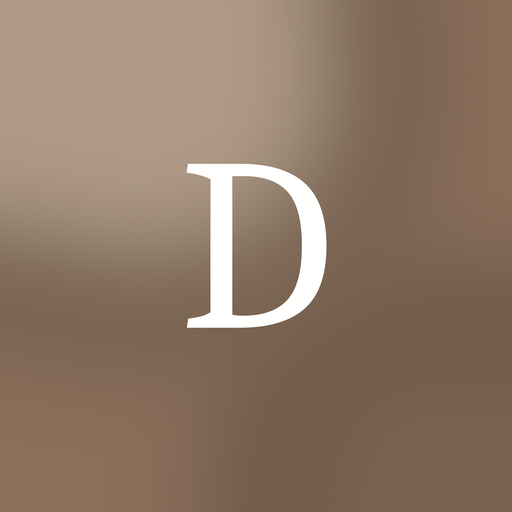
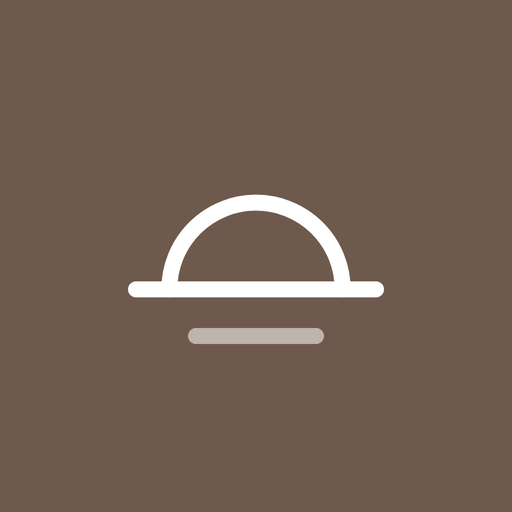
Sunrise mark instead of the name, stay inside Daylo, saved companies, numbered invoices from email
Claude-Session: https://claude.ai/code/session_01332NGPfYHGdoGqGJH88BvD

diff --git a/index.html b/index.html
@@ -1119,7 +1119,7 @@ function renderSide(){
   const gs={compose:['ok','Emails open in your Gmail'],ok:['ok','Gmail connected'],checking:['','Checking Gmail…'],unknown:['warn','Gmail asks on first use'],reauth:['bad','Reconnect Gmail'],missing:['bad','Gmail not connected'],none:['bad','Gmail unavailable here']}[S.gmailStatus]||['','Gmail'];
   const ds={device:['ok','Saved on this device'],db:['ok','Saving to your account'],memory:['warn','Not saving: open in Claude'],checking:['','Loading your data…']}[S.dbStatus]||['',''];
   $('#side').replaceChildren(
-    h('div',{class:'brand'},h('div',{class:'mark'},S.settings.avatarId?h('img',{src:blobUrl(S.settings.avatarId),alt:''}):initials(myName()||'Daylo')),h('div',{class:'grow'},h('b',null,'Daylo'),h('span',null,myName()||'Brand deals, in one place'))),
+    h('div',{class:'brand'},h('div',{class:'mark'},S.settings.avatarId?h('img',{src:blobUrl(S.settings.avatarId),alt:''}):initials(myName()||'Daylo')),h('div',{class:'grow'},h('b',null,logoMark(30)),h('span',null,myName()||'Brand deals, in one place'))),
     h('nav',{class:'nav','aria-label':'Sections'},NAV.map(([k,l])=>h('button',{'aria-current':page===k?'page':null,onclick:()=>{S.campStages=null;S.invFilter=null;go(k)}},icon(k),k==='campaigns'?V().title:l,c[k]?h('span',{class:'count'},c[k]):null))),
     h('div',{class:'side-foot'},installEvt?h('button',{class:'btn sm primary',onclick:installApp},icon('plus'),'Install app'):null,
       needAllow?h('button',{class:'btn sm primary',onclick:allowGmail},icon('mail'),'Allow Gmail'):h('div',{class:'status-line'},h('span',{class:'dot '+gs[0]}),gs[1]),
@@ -2104,7 +2104,7 @@ function importData(){const inp=h('input',{type:'file',accept:'application/json,
       persist();schedule();toast('Imported '+n+' items')}
     catch{toast('That file isn\'t a Daylo backup.')}});
   document.body.append(inp);inp.click()}
-function welcomeCard(){const st=S.settings;return h('section',{class:'panel'},h('div',{class:'panel-body form'},h('h2',null,st.gmailAt?'Nothing planned yet':'Fill your Daylo from Gmail'),h('p',{class:'muted'},st.gmailAt?'Gmail had nothing new to add. Tap + to plan something, or look around with an example.':'Daylo reads your recent emails and suggests brand deals, payments, dates and replies. You choose what to keep.'),h('div',{class:'row'},h('button',{class:'btn primary',onclick:checkGmail},icon(st.gmailAt?'refresh':'mail'),st.gmailAt?'Check Gmail again':'Connect Gmail'),h('button',{class:'btn',onclick:()=>{loadDemo();toast('Example data loaded')}},'See an example')),st.gmailAt?null:h('p',{class:'small muted'},'Read only · stays on this device')))}
+function welcomeCard(){const st=S.settings;return h('section',{class:'panel'},h('div',{class:'panel-body form'},h('h2',null,st.gmailAt?'Nothing planned yet':'Fill from Gmail'),h('p',{class:'muted'},st.gmailAt?'Gmail had nothing new to add. Tap + to plan something, or look around with an example.':'Your deals, payments and dates, found for you. You choose what to keep.'),h('div',{class:'row'},h('button',{class:'btn primary',onclick:checkGmail},icon(st.gmailAt?'refresh':'mail'),st.gmailAt?'Check Gmail again':'Connect Gmail'),h('button',{class:'btn',onclick:()=>{loadDemo();toast('Example data loaded')}},'See an example')),st.gmailAt?null:h('p',{class:'small muted'},'Read only · stays on this device')))}
 function pageSettings(){
   const st=S.settings;
   const form=h('form',{class:'form',onsubmit:async e=>{e.preventDefault();const f=e.target.elements;await attempt(()=>saveSettings({role:f.role.value,name:f.name.value.trim(),gmailAddress:f.gmailAddress.value.trim().toLowerCase(),rates:f.rates.value.trim(),signature:f.signature.value,currency:f.currency.value,dealQuery:f.dealQuery.value.trim()}),'Settings saved')}},
@@ -2143,7 +2143,7 @@ function shareDaylo(){
   openDrawer('Share Daylo',h('div',{class:'form',style:'align-items:center;text-align:center'},
     h('p',{class:'muted'},'Scan with your phone camera.'),
     h('img',{src:TRY_QR,alt:'QR code to try Daylo',class:'share-qr'}),
-    h('div',{class:'share-name'},h('b',null,'Daylo'),h('span',null,'AI Assistant')),
+    h('div',{class:'share-name'},h('b',null,logoMark(30)),h('span',null,'AI Assistant')),
     h('div',{class:'row',style:'justify-content:center'},
       navigator.share?h('button',{class:'btn primary',onclick:()=>navigator.share({title:'Daylo',text:'Daylo AI Assistant: your days, gently in order.',url:TRY_URL}).catch(()=>{})},icon('send'),'Send the link'):null,
       h('button',{class:'btn',onclick:async()=>{try{await navigator.clipboard.writeText(TRY_URL);toast('Link copied')}catch{toast(TRY_URL)}}},'Copy link'))),
@@ -2172,7 +2172,7 @@ async function notifyNow(){if(notifBusy||!CUR||notifState()!=='granted'||!S.sett
     const sent=(S.settings.notified&&S.settings.notified.day===t)?{...S.settings.notified,keys:[...S.settings.notified.keys]}:{day:t,keys:[]};
     let last=null;try{last=await IDB.get('lastSummary:'+CUR)}catch{}
     if(last!==t&&now.getHours()>=7){const late=S.tasks.filter(x=>!x.done&&x.due&&x.due<t).length,due=S.tasks.filter(x=>!x.done&&x.due===t).length,rt=routinesOn(t).filter(r=>!routineDone(r,t)).length;
-      if(late||due||rt){await showNote('Your day in Daylo',[due&&due+' due today',late&&late+' late',rt&&rt+(rt===1?' routine':' routines')].filter(Boolean).join(' · '),'daylo-summary','./#schedule')}
+      if(late||due||rt){await showNote('Your day',[due&&due+' due today',late&&late+' late',rt&&rt+(rt===1?' routine':' routines')].filter(Boolean).join(' · '),'daylo-summary','./#schedule')}
       try{await IDB.set('lastSummary:'+CUR,t)}catch{}}
     for(const x of S.tasks.filter(x=>!x.done&&x.due===t&&x.time)){const[hh,mm]=x.time.split(':').map(Number);const at=new Date();at.setHours(hh,mm,0,0);const diff=(at-now)/60000;const k='soon:'+x.id+':'+x.time;
       if(diff<=15&&diff>-5&&!sent.keys.includes(k)){await showNote(diff>0?'In '+Math.max(1,Math.round(diff))+' min: '+x.title:'Now: '+x.title,(x.type||'Task')+(x.campaignId?' · '+campaignName(x.campaignId):''),k,'./#schedule');sent.keys.push(k);changed=true}}
@@ -2393,27 +2393,27 @@ function sugSub(s){
 }
 function showFound(found,read){
   if(!found.length){
-    openDrawer('Your Gmail',h('div',{class:'form'},h('p',null,h('b',null,'Nothing new to add.')),h('p',{class:'muted'},'Daylo read '+read+' recent emails and didn’t find new brand deals, payments, dates or questions waiting for you.'),h('p',{class:'small muted'},'You can see your latest emails on the Email page.')),
+    openDrawer('Your Gmail',h('div',{class:'form'},h('p',null,h('b',null,'Nothing new to add.')),h('p',{class:'muted'},'Read '+read+' emails. No new brand deals, payments, dates or questions waiting for you.'),h('p',{class:'small muted'},'You can see your latest emails on the Email page.')),
       [h('button',{class:'btn primary',onclick:()=>{closeDrawer();renderMain()}},'OK'),h('button',{class:'btn',onclick:()=>{closeDrawer();go('inbox')}},'See emails')]);
     renderMain();return;
   }
   const pick=new Set(found.map(s=>s.key));
   const btn=h('button',{class:'btn primary',type:'button'});
-  const upd=()=>{btn.textContent=pick.size?('Add '+pick.size+' to Daylo'):'Add to Daylo';btn.disabled=!pick.size};upd();
+  const upd=()=>{btn.textContent=pick.size?('Add '+pick.size):'Add';btn.disabled=!pick.size};upd();
   const groups=['deal','money','date','reply'].map(k=>{const items=found.filter(s=>s.kind===k);if(!items.length)return null;
     return h('div',{class:'gm-group'},h('h3',{class:'gm-h'},icon(KIND[k][1]),KIND[k][0],h('span',{class:'muted'},items.length)),
       h('div',{class:'list'},items.map(s=>{const cb=h('input',{type:'checkbox',checked:true,'aria-label':'Add '+sugTitle(s),onchange:()=>{cb.checked?pick.add(s.key):pick.delete(s.key);upd()}});
         return h('label',{class:'item gm-item'},cb,h('div',{class:'grow'},h('div',{class:'t'},sugTitle(s)),h('div',{class:'sub'},sugSub(s))),
-          h('a',{class:'btn sm ghost',href:gmailUrl('#all/'+s.threadId),target:'_blank',rel:'noopener',onclick:e=>e.stopPropagation()},'Open'))})))});
+          h('button',{class:'btn sm ghost',type:'button',onclick:e=>{e.preventDefault();e.stopPropagation();openMail(s.threadId)}},'Open'))})))});
   btn.onclick=async()=>{btn.disabled=true;let n=0;
     for(const s of found){if(pick.has(s.key)){await addSuggestion(s);n++}}
     const skipped=found.filter(s=>!pick.has(s.key)).map(s=>s.key);
     await saveSettings({gmailSkip:[...(S.settings.gmailSkip||[]),...skipped].slice(-400)});
-    closeDrawer();renderMain();toast('Added '+n+' to your Daylo');};
+    closeDrawer();renderMain();toast('Added '+n+'');};
   openDrawer('Found in your Gmail',h('div',{class:'form'},
-    h('p',{class:'muted'},'Daylo read '+read+' recent emails and found '+found.length+' things. Untick anything you don’t want, then add.'),
+    h('p',{class:'muted'},'Read '+read+' emails, found '+found.length+' things. Untick anything you don’t want, then add.'),
     ...groups.filter(Boolean),
-    h('p',{class:'small muted'},'Read only: Daylo can’t send, delete or change your emails. What it reads stays on this device.')),
+    h('p',{class:'small muted'},'Read only · stays on this device')),
     [btn,h('button',{class:'btn',type:'button',onclick:()=>{closeDrawer();renderMain()}},'Not now')]);
 }
 async function addSuggestion(s){
@@ -2527,7 +2527,7 @@ function askConfirm(){
   if(!CP||reviewWarnings().some(x=>x[0]==='bad'))return;
   const no=h('button',{class:'btn',type:'button',onclick:closeConfirm},'No, go back');
   const yes=h('button',{class:'btn primary',id:'cf-send',type:'button',onclick:sendViaGmail},icon('send'),'Yes, send');
-  const viaGmail=h('a',{class:'linkish small',href:composeUrl(),target:'_blank',rel:'noopener',onclick:()=>{closeConfirm();CP.step='handed';drawComposer()}},'or open it in Gmail');
+  const viaGmail=null;
   $('#overlay').append(h('div',{class:'confirm-layer',id:'confirm-layer',role:'alertdialog','aria-modal':'true','aria-labelledby':'cf-t'},h('div',{class:'confirm-card'},
     h('h2',{id:'cf-t'},'Send this email?'),
     h('p',null,tokOk()&&GSEND?'It goes out from your Gmail right now.':'Google asks you once to allow sending, then it goes out from your Gmail.'),
@@ -2644,7 +2644,7 @@ document.head.append(Object.assign(document.createElement('style'),{textContent:
 `}));
 
 /* ---------- updates: pull down to refresh, auto-update when a new version is out ---------- */
-const BUILD_ID='202610141838';
+const BUILD_ID='202610141843';
 function buildLabel(id){const m=String(id).match(/^(\d{4})(\d\d)(\d\d)(\d\d)(\d\d)$/);if(!m)return id;const d=new Date(+m[1],m[2]-1,+m[3],+m[4],+m[5]);return d.toLocaleDateString(undefined,{month:'short',day:'numeric'})+', '+d.toLocaleTimeString([], {hour:'numeric',minute:'2-digit'})}
 async function newVersion(){try{const t=await fetch('./index.html?fresh='+Date.now(),{cache:'no-store'}).then(r=>r.ok?r.text():'');const m=t.match(/BUILD_ID='(\d{12})'/);return m&&m[1]!==BUILD_ID?m[1]:null}catch{return null}}
 async function refreshApp(){
@@ -2657,7 +2657,7 @@ async function refreshApp(){
 (function cleanV(){if(/[?&]v=\d+/.test(location.search)){try{history.replaceState(null,'',location.pathname+location.hash)}catch{}}})();
 function busyNow(){return !!(document.querySelector('#overlay > *')||document.activeElement&&/INPUT|TEXTAREA|SELECT/.test(document.activeElement.tagName))}
 let updWaiting=null;
-function showUpdateBar(){if(document.getElementById('upd-bar'))return;const b=h('div',{id:'upd-bar'},h('span',null,'A new version of Daylo is ready'),h('button',{onclick:refreshApp},'Update'));document.body.append(b)}
+function showUpdateBar(){if(document.getElementById('upd-bar'))return;const b=h('div',{id:'upd-bar'},h('span',null,'A new version is ready'),h('button',{onclick:refreshApp},'Update'));document.body.append(b)}
 async function checkUpdate(manual){
   const v=await newVersion();
   if(!v){if(manual)toast('You have the latest version');return false}
@@ -2678,7 +2678,7 @@ setInterval(()=>{if(document.visibilityState==='visible')checkUpdate(false)},20*
   window.addEventListener('touchend',()=>{if(y0==null)return;y0=null;if(d>=72){ind.classList.add('spin');ind.style.transform='translate(-50%,36px)';refreshApp()}else{ind.style.opacity=0;ind.style.transform=''}d=0});
 })();
 function appPanel(){return h('section',{class:'panel',id:'app-version'},h('div',{class:'panel-head'},h('h2',null,'App updates')),h('div',{class:'panel-body form'},
-  h('p',{class:'small muted'},'Version '+buildLabel(BUILD_ID)+'. Daylo updates itself when you open it. You can also pull down from the top of any page, or tap the button.'),
+  h('p',{class:'small muted'},'Version '+buildLabel(BUILD_ID)+'. Updates arrive on their own. Pull down to refresh.'),
   h('div',{class:'row'},h('button',{class:'btn',onclick:()=>{toast('Checking…');checkUpdate(true)}},icon('refresh'),'Check for updates'))))}
 const _pageSettings=pageSettings;
 pageSettings=function(){const el=_pageSettings();try{el.append(appPanel())}catch(e){}return el};
@@ -2897,7 +2897,7 @@ function draftReply(p,msg){
 
 /* mic in the top bar (phone) and ?talk=1 opens it */
 const _renderSideV=renderSide;
-renderSide=function(){_renderSideV();try{const tr=document.querySelector('.top-right');if(tr&&!tr.querySelector('.mic-btn')){const b=h('button',{class:'bell mic-btn','aria-label':'Talk to Daylo',title:'Talk to Daylo',onclick:openVoice},icon('mic'));tr.insertBefore(b,tr.querySelector('.bell'))}}catch{}};
+renderSide=function(){_renderSideV();try{const tr=document.querySelector('.top-right');if(tr&&!tr.querySelector('.mic-btn')){const b=h('button',{class:'bell mic-btn','aria-label':'Talk',title:'Talk',onclick:openVoice},icon('mic'));tr.insertBefore(b,tr.querySelector('.bell'))}}catch{}};
 /* voice settings */
 function voicePanel(){
   const st=S.settings;const sel=h('select',{class:'input',id:'set-voice'});
@@ -2905,12 +2905,12 @@ function voicePanel(){
     const list=all.filter(v=>showAll||/^(en|es)/i.test(v.lang)).sort((a,b)=>a.lang.localeCompare(b.lang)||a.name.localeCompare(b.name));
     sel.replaceChildren(...(list.length?list.map(v=>{const o=h('option',{value:v.name},v.name+' · '+v.lang);if(v.name===cur)o.selected=true;return o}):[h('option',{value:''},'Voices are loading…')]))};
   fill();try{speechSynthesis.onvoiceschanged=fill}catch{}
-  sel.onchange=()=>{saveSettings({voiceName:sel.value});speak('Hi'+(myName()?' '+myName().split(' ')[0]:'')+', I’m Daylo.')};
+  sel.onchange=()=>{saveSettings({voiceName:sel.value});speak('Hi'+(myName()?' '+myName().split(' ')[0]:'')+'.')};
   const rate=h('input',{type:'range',min:'0.7',max:'1.3',step:'0.05',value:String(st.voiceRate||1),oninput:e=>{S.settings.voiceRate=Number(e.target.value)},onchange:e=>{saveSettings({voiceRate:Number(e.target.value)});speak('This is my speed.')}});
   const tb=h('input',{type:'checkbox',checked:st.talkBack!==false,onchange:e=>saveSettings({talkBack:e.target.checked})});
   return h('section',{class:'panel',id:'voice-panel'},h('div',{class:'panel-head'},h('h2',null,'Voice')),h('div',{class:'panel-body form'},
-    h('p',{class:'small muted'},'Tap the microphone at the top to talk to Daylo. Pick how Daylo sounds when it talks back.'),
-    h('label',{class:'confirm-box'},tb,h('span',null,'Daylo talks back')),
+    h('p',{class:'small muted'},'Pick the voice you hear.'),
+    h('label',{class:'confirm-box'},tb,h('span',null,'Talk back to me')),
     field('Voice',sel,'For more natural voices: iPhone Settings → Accessibility → Spoken Content → Voices, download an “Enhanced” or “Premium” voice, then come back here.'),
     h('div',{class:'row'},h('button',{class:'btn sm ghost',type:'button',onclick:()=>{VO.allLangs=!VO.allLangs;fill()}},'All languages')),
     field('Speed',rate),
@@ -2986,8 +2986,7 @@ async function openMail(threadId){
   const to=them.p.mine?'':them.p.from.email;
   closeDrawer();
   openDrawer(them.p.fromName||'Email',view,[
-    h('button',{class:'btn primary',onclick:()=>{closeDrawer();openComposer({to,subject:'Re: '+subj});if(CP)CP.gmail={threadId,msgId,refs}}},icon('reply'),'Reply'),
-    h('a',{class:'btn',href:gmailUrl('#all/'+threadId),target:'_blank',rel:'noopener'},'Open in Gmail')]);
+    h('button',{class:'btn primary',onclick:()=>{closeDrawer();openComposer({to,subject:'Re: '+subj});if(CP)CP.gmail={threadId,msgId,refs}}},icon('reply'),'Reply')]);
 }
 
 /* ---------- Check my English (spelling and grammar) ---------- */
@@ -3063,7 +3062,7 @@ document.head.append(Object.assign(document.createElement('style'),{textContent:
 try{const t=THEMES.find(x=>x[0]==='ivory');if(t){t[1]='Studio';t[2]='Bright white, soft cocoa';t[3]='#FAFAF9';t[4]='#EFEBE7';t[5]='#6E5A4C'}}catch{}
 /* mic in the middle of the bottom bar; + moves to the top */
 const _renderTabbarS=renderTabbar;
-renderTabbar=function(){_renderTabbarS();try{const a=document.querySelector('#tabbar .tab.add');if(a){const n=h('button',{class:'tab add mic','aria-label':'Talk to Daylo',onclick:()=>openVoice()},icon('mic'));a.replaceWith(n)}}catch(e){console.error(e)}};
+renderTabbar=function(){_renderTabbarS();try{const a=document.querySelector('#tabbar .tab.add');if(a){const n=h('button',{class:'tab add mic','aria-label':'Talk',onclick:()=>openVoice()},icon('mic'));a.replaceWith(n)}}catch(e){console.error(e)}};
 renderSide=(function(prev){return function(){prev();try{const tr=document.querySelector('.top-right');if(!tr)return;const m=tr.querySelector('.mic-btn');if(m)m.remove();if(!tr.querySelector('.plus-btn')){tr.insertBefore(h('button',{class:'bell plus-btn','aria-label':'Add something',title:'Add',onclick:quickAdd},icon('plus')),tr.querySelector('.bell'))}}catch{}}})(renderSide);
 document.head.append(Object.assign(document.createElement('style'),{textContent:`
 :root[data-theme="ivory"]{--bg:#FAFAF9!important;--side:#FAFAF9!important;--card:#FFFFFF!important;--panel:#FFFFFF!important;--fg:#222120!important;--muted:#91908C!important;--line:#E8E8E5!important;--line2:#DCDCD8!important;--primary:#6E5A4C!important;--on-primary:#fff!important;--green:#F1F1EF!important;--green2:#EFEBE7!important;--glass:#F1F1EF!important;--glass-line:#E8E8E5!important;--gold:#6E5A4C!important;--surface2:#F1F1EF;
@@ -3145,6 +3144,51 @@ document.head.append(Object.assign(document.createElement('style'),{textContent:
 :root[data-theme="ivory"] .table-wrap th{font:600 12px var(--f-body);color:var(--muted)}
 `}));
 
+/* ---------- the Daylo mark (sunrise over your list), used instead of the name ---------- */
+function logoMark(size,draw){const s=document.createElement('span');s.className='logo-mark'+(draw?' draw':'');s.setAttribute('aria-label','Daylo');s.setAttribute('role','img');
+  s.innerHTML='<svg width="'+(size||28)+'" height="'+(size||28)+'" viewBox="0 0 48 48" fill="none" stroke="currentColor" stroke-width="2.6" stroke-linecap="round"><path pathLength="1" d="M11 29a13 13 0 0 1 26 0"/><path pathLength="1" d="M6 29h36"/><path pathLength="1" d="M15 36h18" opacity=".5"/></svg>';return s}
+(function splashMark(){const sp=document.getElementById('splash');if(!sp)return;const i=sp.querySelector('.sp-in');if(i)i.replaceChildren(logoMark(92,true))})();
+document.head.append(Object.assign(document.createElement('style'),{textContent:`
+.logo-mark{display:inline-grid;place-items:center;color:#6E5A4C;line-height:0}
+.brand .logo-mark{color:#222120}
+.logo-mark.draw path{stroke-dasharray:1;stroke-dashoffset:1;animation:spDraw .9s ease forwards}
+.logo-mark.draw path:nth-child(2){animation-delay:.25s}.logo-mark.draw path:nth-child(3){animation-delay:.45s}
+`}));
+
+/* ---------- stay inside Daylo: no "open in Gmail" ---------- */
+document.head.append(Object.assign(document.createElement('style'),{textContent:`a[href*="mail.google.com"]{display:none!important}
+.brand .grow .logo-mark,.brand .logo-mark{display:inline-grid!important}`}));
+function pageInbox(){
+  const sent=[...S.sent].sort((a,b)=>(b.sentAt||0)-(a.sentAt||0));
+  return h('div',{class:'page'},head('Email','',h('button',{class:'btn primary',onclick:()=>openComposer({})},icon('mail'),'Write')),
+    gmailInboxPanel(),
+    sent.length?h('section',{class:'panel'},h('div',{class:'panel-head'},h('h2',null,'Sent'),h('span',{class:'small muted'},sent.length)),
+      h('div',{class:'list'},sent.slice(0,20).map(s=>h('div',{class:'item click',role:'button',tabindex:'0',onclick:()=>s.threadId&&typeof openMail==='function'?openMail(s.threadId):showSentRecord(s)},h('div',{class:'avatar'},icon('send')),h('div',{class:'grow'},h('div',{class:'t'},(s.to||[]).join(', ')),h('div',{class:'sub'},(s.subject||'(no subject)')+' · '+fmtFull(s.sentAt))))))):null);
+}
+
+/* ---------- saved companies and numbered invoices ---------- */
+const _saveS=save;
+async function ensureContact(name,email,brand){
+  email=String(email||'').trim().toLowerCase();if(!validEmail(email)||isNoReply(email)||/@([a-z0-9-]+\.)*(paypal|stripe|venmo|wise|zelle|squareup|square|intuit|quickbooks|payoneer|cash\.app|revolut|bill\.com)\./i.test(email))return;
+  if(S.contacts.some(c=>(c.email||'').toLowerCase()===email))return;
+  await _saveS('contacts',{name:name||brand||email.split('@')[0],email,brand:brand||name||'',type:'Brand',fromDaylo:true});
+}
+save=async function(coll,obj){
+  const id=await _saveS(coll,obj);
+  try{if(coll==='campaigns')await ensureContact(obj.brand,obj.contactEmail,obj.brand);if(coll==='invoices')await ensureContact(obj.client,obj.clientEmail,obj.client)}catch(e){console.error(e)}
+  return id;
+};
+/* money found in email gets a numbered invoice record, so Payments is never empty */
+const _trackMoneyS=trackMoney;
+trackMoney=async function(x,quiet){
+  const cid=await _trackMoneyS(x,true);
+  try{if((x.kind==='paid'||x.kind==='owed')&&x.amount&&!S.invoices.some(i=>i.campaignId===cid||(i.gmailThread&&i.gmailThread===x.threadId))){
+    const c=S.campaigns.find(c=>c.id===cid)||{};const day=ymd(new Date(x.at||Date.now()));
+    await save('invoices',{number:nextInvoiceNumber(),status:x.kind==='paid'?'Paid':'Sent',issued:day,due:x.kind==='paid'?day:addDays(day,30),paidOn:x.kind==='paid'?day:'',client:x.brand,clientEmail:c.contactEmail||'',description:x.subject||c.campaign||'',amount:x.amount.n,currency:x.amount.cur,campaignId:cid,gmailThread:x.threadId,notes:'Made from your email'})}}catch(e){console.error(e)}
+  if(!quiet){toast(x.brand+' added');renderMain()}
+  return cid;
+};
+
 /* ---------- accounts: each person signs in with their email and gets their own space ---------- */
 const ACCOUNTS_ON=true;
 S.booted=false;
@@ -3174,7 +3218,7 @@ async function enterAccount(email){
 }
 async function signOut(msg){await persistNow();CUR=null;try{await IDB.del('cur')}catch{}COLLS.forEach(c=>S[c]=[]);S.settings={};applyTheme();
   ONB={step:'start',role:'',err:'',pick:null,show:false};for(const a of ACCTS)await loadImg(a.avatarId);renderSide();renderMain();if(msg)toast(msg)}
-function finishEntry(isNew){ONB={step:'start',role:'',err:'',pick:null,show:false};document.body.classList.remove('onb','onb-start');renderSide();if(S.settings.onboarded){go('today');const f=(S.settings.name||'').split(' ')[0];toast((isNew?'Welcome to Daylo':'Welcome back')+(f?', '+f:'')+'!')}else renderMain()}
+function finishEntry(isNew){ONB={step:'start',role:'',err:'',pick:null,show:false};document.body.classList.remove('onb','onb-start');renderSide();if(S.settings.onboarded){go('today');const f=(S.settings.name||'').split(' ')[0];toast((isNew?'Welcome':'Welcome back')+(f?', '+f:'')+'!')}else renderMain()}
 function faceOf(a,cls){const u=blobUrl(a.avatarId);return h('span',{class:cls||'acct-face'},u?h('img',{src:u,alt:''}):initials(a.name||a.email))}
 function pwInput(name,id,ph,auto){const i=h('input',{class:'input',name,id,type:ONB.show?'text':'password',autocomplete:auto,placeholder:ph,minlength:'6'});
   return h('div',{class:'pw-row'},i,h('button',{type:'button',class:'btn sm ghost',onclick:e=>{ONB.show=!ONB.show;document.querySelectorAll('.pw-row input').forEach(x=>x.type=ONB.show?'text':'password');e.currentTarget.textContent=ONB.show?'Hide':'Show'}},ONB.show?'Hide':'Show'))}
@@ -3402,7 +3446,7 @@ function demoData(){
 }
 function loadDemo(){const d=demoData();COLLS.forEach(c=>S[c]=[...S[c].filter(x=>!String(x.id).startsWith('d-')),...(d[c]||[])]);const mine=S.settings||{};S.settings={...d.settings,...Object.fromEntries(Object.entries(mine).filter(([k,v])=>v!==''&&v!=null)),demo:true};persist();schedule()}
 function removeExamples(){COLLS.forEach(c=>S[c]=S[c].filter(x=>!String(x.id).startsWith('d-')));S.settings={...S.settings,demo:false};persist();schedule();toast('Examples removed')}
-function guestBanner(){if(typeof CUR==='undefined'||!CUR||typeof acct!=='function'||!(acct(CUR)||{}).guest)return null;return h('div',{class:'guest-row'},h('span',null,'You’re trying Daylo'),h('button',{onclick:()=>{go('settings');scrollToId('account')}},'Save with email →'))}
+function guestBanner(){if(typeof CUR==='undefined'||!CUR||typeof acct!=='function'||!(acct(CUR)||{}).guest)return null;return h('div',{class:'guest-row'},h('span',null,'Guest mode'),h('button',{onclick:()=>{go('settings');scrollToId('account')}},'Save with email →'))}
 function demoBanner(){return h('div',{class:'notice info'},icon('spark'),h('div',{class:'grow'},h('p',null,h('b',null,'This is a demo with example data. '),'Try anything: add a '+V().one.toLowerCase()+', plan your week, write an email. Your changes stay in your browser only.'),
   h('div',{class:'row',style:'margin-top:10px;gap:6px'},h('span',{class:'small muted'},'Try it as:'),ROLES.map(([k,l])=>h('button',{class:'chip',style:role()===k?'background:var(--primary);color:var(--on-primary);border-color:var(--primary)':'',onclick:()=>{S.settings={...S.settings,role:k};persist();schedule()}},l))),
   h('div',{class:'row',style:'margin-top:8px'},h('button',{class:'btn sm primary',onclick:removeExamples},'Remove examples'),h('button',{class:'btn sm',onclick:()=>{loadDemo();toast('Example data restored')}},'Reset examples'))))}

diff --git a/sw.js b/sw.js
@@ -1,5 +1,5 @@
 // Daylo service worker: makes the app open fast and work offline.
-const CACHE='daylo-v32';
+const CACHE='daylo-v33';
 const SHELL=['./','./index.html','./manifest.webmanifest','./icons/icon-192.png','./icons/icon-512.png','./icons/apple-touch-icon.png'];
 self.addEventListener('install',e=>{e.waitUntil(caches.open(CACHE).then(c=>c.addAll(SHELL)).then(()=>self.skipWaiting()))});
 self.addEventListener('activate',e=>{e.waitUntil(caches.keys().then(ks=>Promise.all(ks.filter(k=>k!==CACHE).map(k=>caches.delete(k)))).then(()=>self.clients.claim()))});
